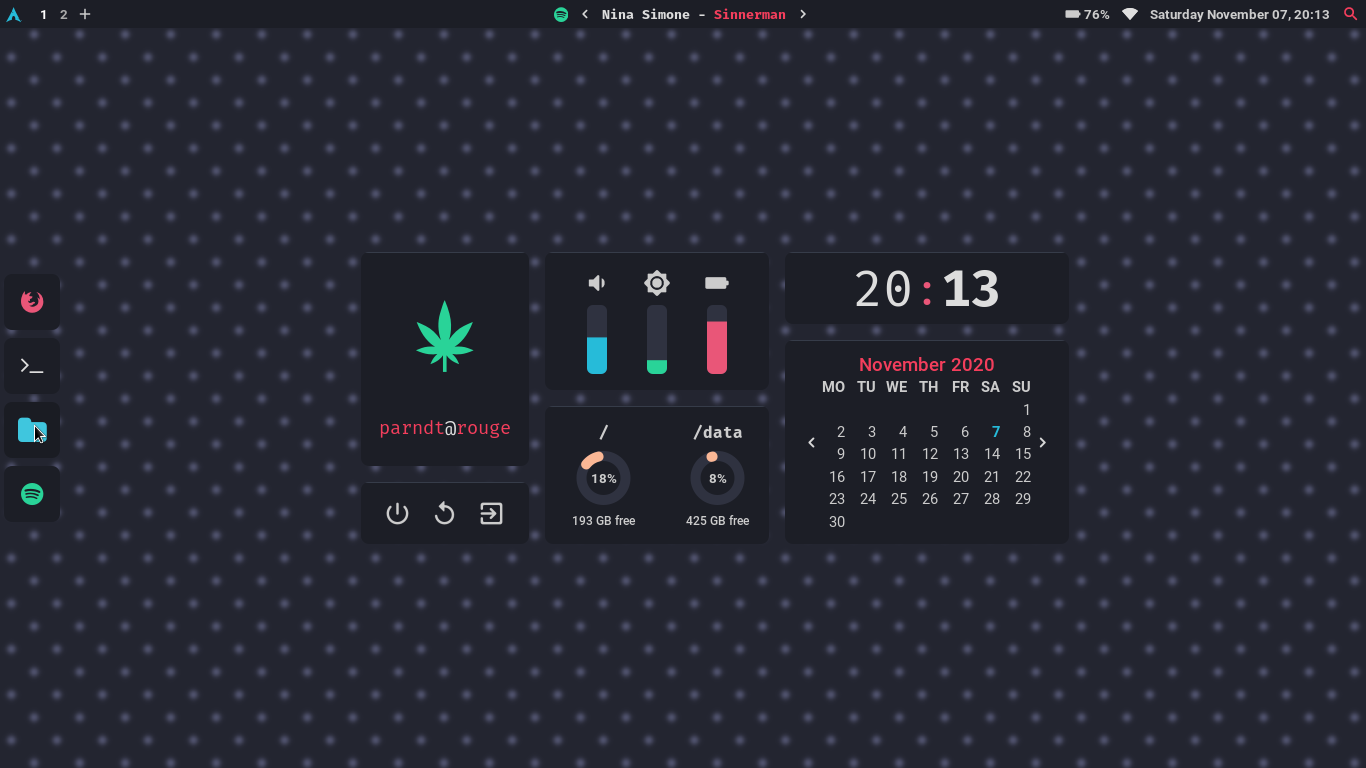
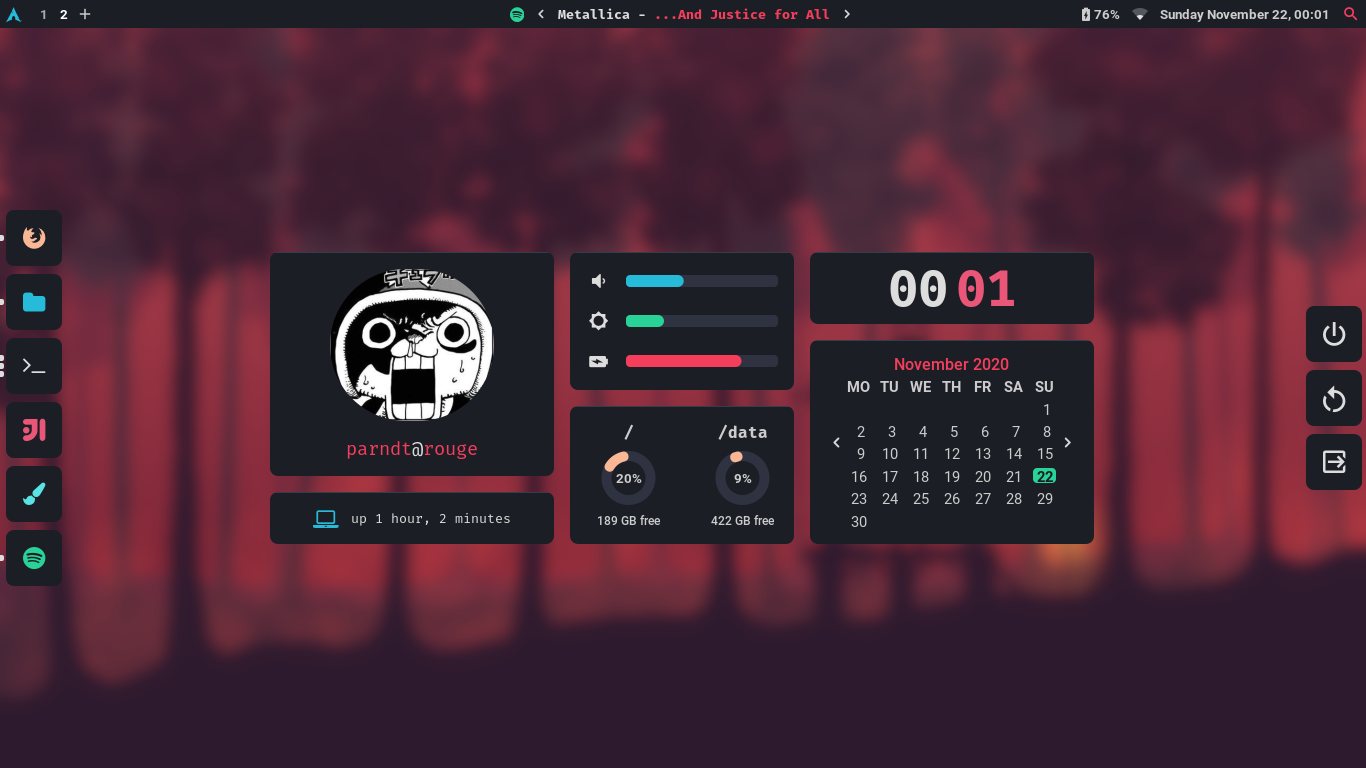
Updated readme and screenshots

diff --git a/README.MD b/README.MD
@@ -2,15 +2,31 @@
 
 Arch Linux dotfiles
 
-* WM: AwesomeWM
-* OS: Arch Linux
+## Details
+
++ **OS**: Arch Linux
++ **WM**: AwesomeWM
++ **Shell**: `zsh` with `oh-my-zsh`
++ **Fonts**: Fira Mono and Roboto
++ **Terminal**: kitty
++ **File Manager**: Thunar
++ **Launcher**: rofi
++ **Browser**: Firefox
 
 ### Dependencies
 
+This is basically a write down for myself, in case I have to reinstall. 
+
++ `awesome-git` - Window manager
++ `zsh` and `oh-my-zsh` - Shell
++ `rofi` - App launcher
++ `kitty` - Terminal
++ `picom` - Compositor
++ `thunar` - File explorer
 + `brightnessctl` - Control brightness
 + `pamixer` - Control volume
 + `sp` - Get Spotify information
-+ `Nerd Fonts` - Icons
++ `nerd-fonts-fira-mono` - Icons
 
 ### Screenshots
 
